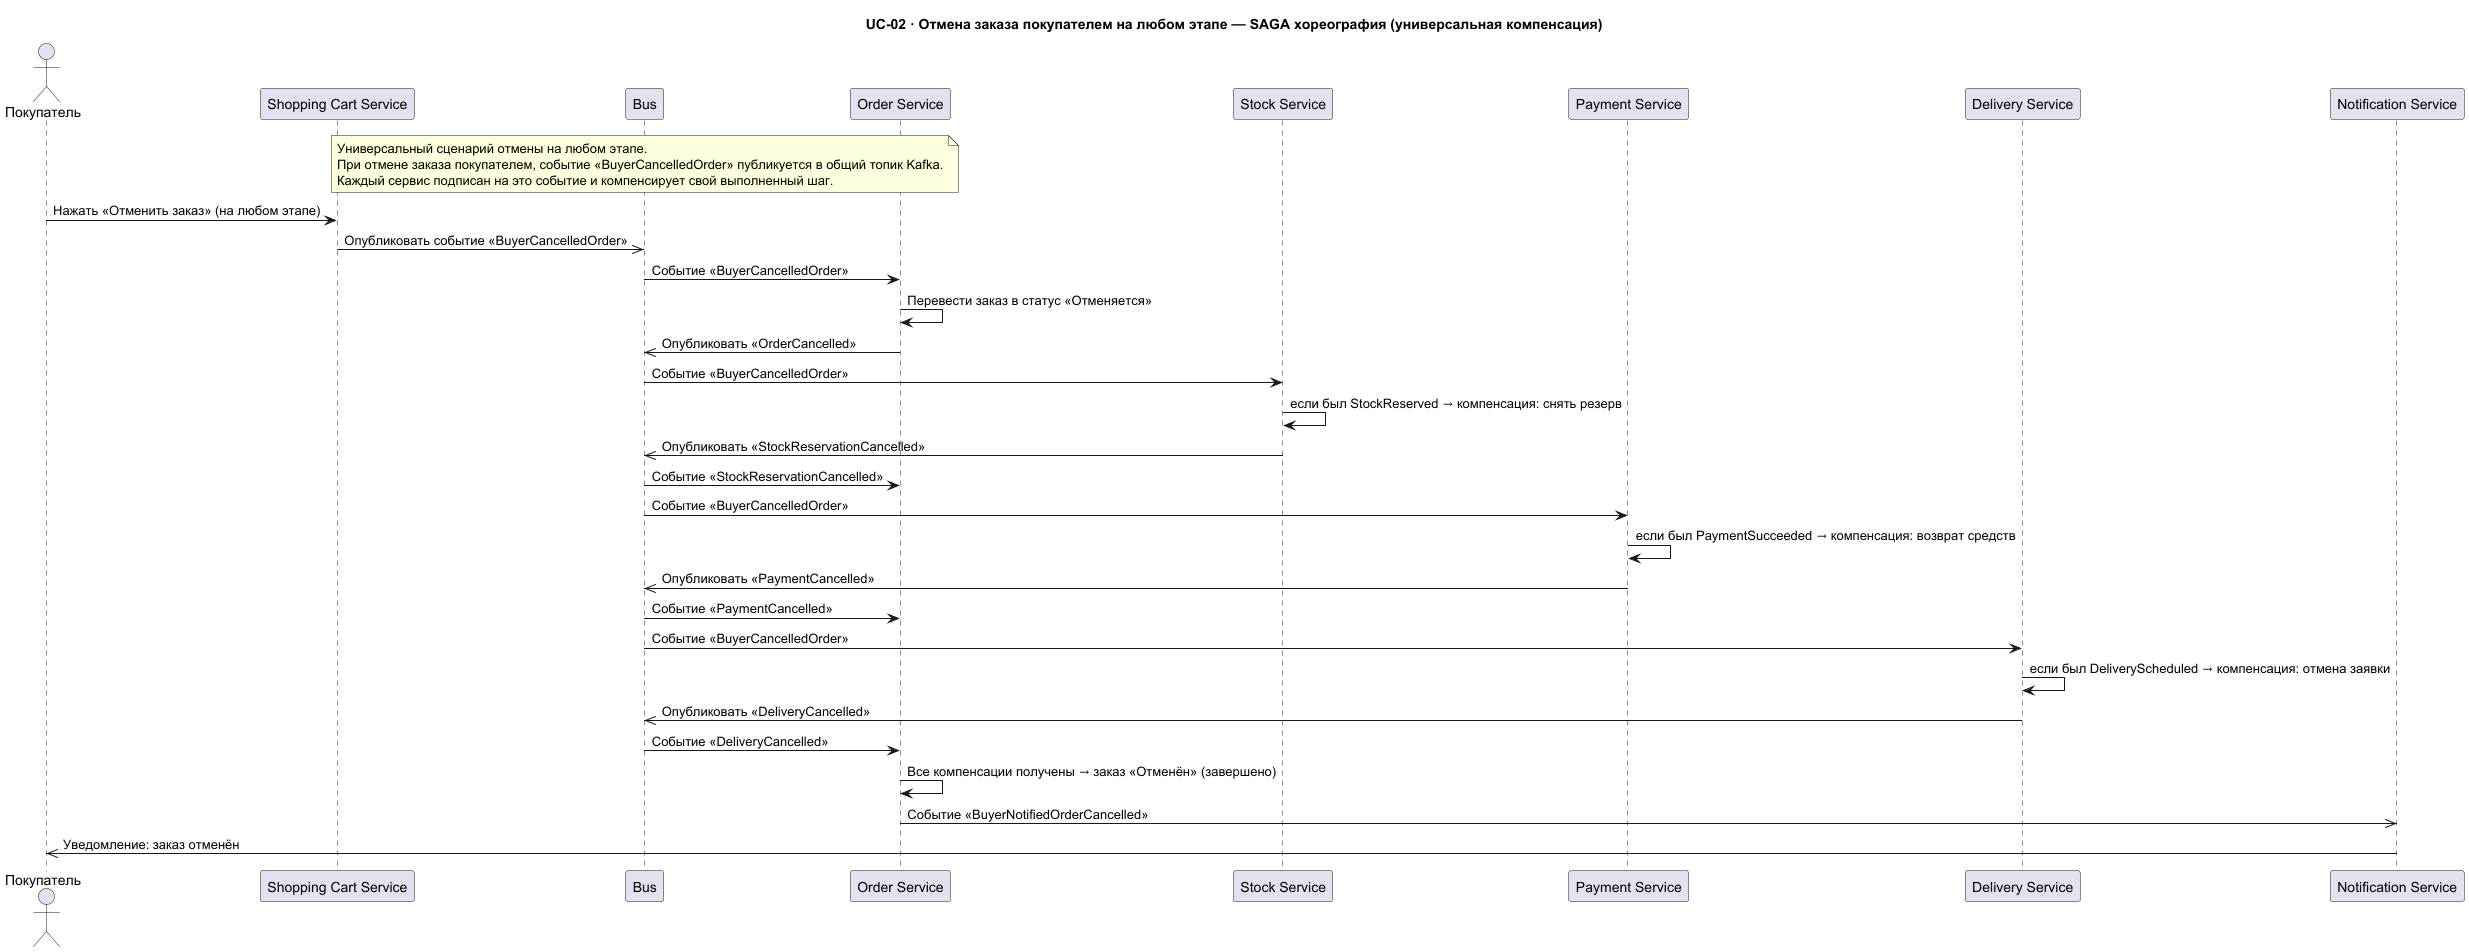
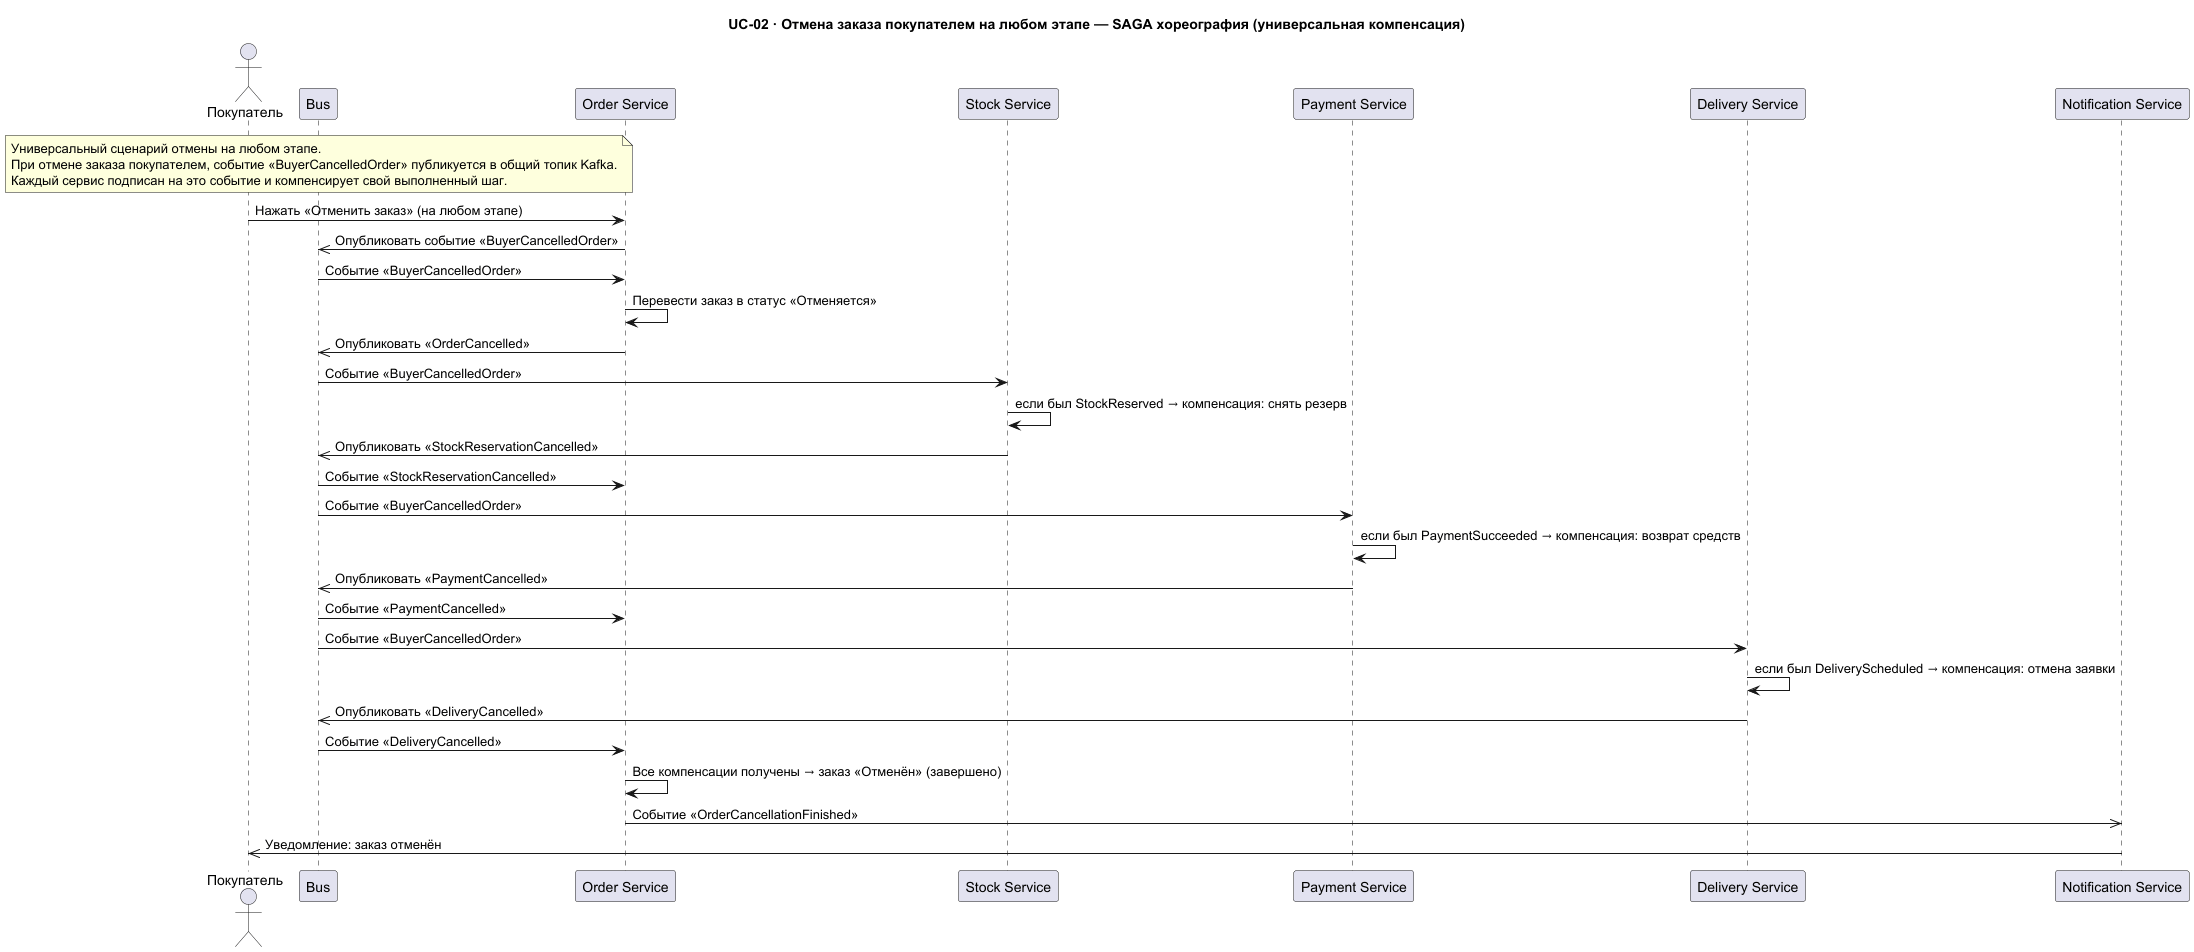
Task1: доработка хореографии, синхронизация документации

diff --git a/Task1/saga-events-registry.md b/Task1/saga-events-registry.md
@@ -13,31 +13,31 @@
 
 ## События при оформлении заказа ##
 
-Реестр построен по выбранному паттерну **SAGA-хореография** (см. [ADR-02](ADR-02-SAGA-pattern-choice.md)); именование событий согласовано с [seq-order-placement-choreography-happy-path.puml](seq-order-placement-choreography-happy-path.puml), [seq-order-placement-choreography-payment-failed.puml](seq-order-placement-choreography-payment-failed.puml) и [seq-order-placement-choreography-delivery-scheduling-failed.puml](seq-order-placement-choreography-delivery-scheduling-failed.puml) и [seq-order-placement-choreography-buyer-cancel.puml](seq-order-placement-choreography-buyer-cancel.puml). 
+Реестр построен по выбранному паттерну **SAGA-хореография** (см. [ADR-02](ADR-02-SAGA-pattern-choice.md)); именование событий согласовано с [seq-order-placement-choreography-happy-path.puml](seq-order-placement-choreography-happy-path.puml), [seq-order-placement-choreography-payment-failed.puml](seq-order-placement-choreography-payment-failed.puml) и [seq-order-placement-choreography-delivery-scheduling-failed.puml](seq-order-placement-choreography-delivery-scheduling-failed.puml) и [seq-order-placement-choreography-buyer-cancel.puml](seq-order-placement-choreography-buyer-cancel.puml) и [seq-order-placement-choreography-stock-reservation-failed.puml](seq-order-placement-choreography-stock-reservation-failed.puml). 
 
-| Этап                               | Тип события  | Название                                 |
-|:-----------------------------------|:------------:|-----------------------------------------:|
-| Оформление заказа покупателем      |    domain    | CartConfirmed                            |
-| Инициирование оплаты заказа        |    domain    | PaymentInitiated                         |
-| Резервирование товаров успешно     |    domain    | StockReserved                            |
-| Резервирование товаров не успешно  |   failure    | StockReservationFailed                   |
-| Снятие резервирования товара       | compensation | StockReservationCancelled                |
-| Списание средств успешно           |    domain    | PaymentSucceeded                         |
-| Списание средств не успешно        |   failure    | PaymentFailed                            |
-| Оплата отменена        | compensation | PaymentCancelled                            |
-| Сформирована заявка на доставку    |    domain    | DeliveryScheduled                        |
-| Заявка на доставку не сформирована | compensation | DeliverySchedulingFailed                 |
-| Заявка на доставку отменена        | compensation | DeliveryCancelled                        |
-| Уведомление продавцу о подготовке товара | domain | SellerNotifiedForDispatch                |
-| Уведомление покупателю об успешном оформлении | domain | BuyerNotifiedOrderConfirmed         |
-| Уведомление покупателю об отмене заказа | domain | BuyerNotifiedOrderCancelled          |
-| Продавец окончательно подтвердил заказ | domain   | SellerConfirmedDeliveryOrder        |
-| Подтверждение заказа покупателем   |    domain    | OrderConfirmed                      |
-| Заказ явно отменён покупателем     | compensation | BuyerCancelledOrder                  |
-| Заказ отменён (компенсация сбоя)   | compensation | OrderCancelled |
-| Завершена отмена заказа | compensation | OrderCancellationFinished |
-| Заказ не подтверждён покупателем   |   timeout    | OrderConfirmTimeout                 |
-| Не удалось осуществить доставку    | compensation | DeliveryFailed                 |
+| Этап                               | Тип события  | Название                                 | Издатель |
+|:-----------------------------------|:------------:|-----------------------------------------:|:--------|
+| Оформление заказа покупателем      |    domain    | CartConfirmed                            | Shopping Cart Service |
+| Не удалось создать заказ           |   failure    | UnableToCreateOrder                      | Shopping Cart Service |
+| Резервирование товаров успешно     |    domain    | StockReserved                            | Stock Service |
+| Резервирование товаров не успешно  |   failure    | StockReservationFailed                   | Stock Service |
+| Отмена резервирования товара       | compensation | StockReservationCancelled                | Stock Service |
+| Инициирование оплаты заказа        |    domain    | OrderNeedsPayment                        | Order Service |
+| Заказ явно отменён покупателем     | compensation | BuyerCancelledOrder                  | Order Service |
+| Заказ отменён (компенсация сбоя)   | compensation | OrderCancelled                      | Order Service |
+| Завершена отмена заказа            | compensation | OrderCancellationFinished            | Order Service |
+| Списание средств успешно           |    domain    | PaymentSucceeded                         | Payment Service |
+| Списание средств не успешно        |   failure    | PaymentFailed                            | Payment Service |
+| Оплата отменена                    | compensation | PaymentCancelled                         | Payment Service |
+| Сформирована заявка на доставку    |    domain    | DeliveryScheduled                        | Delivery Service |
+| Заявка на доставку не сформирована | compensation | DeliverySchedulingFailed                 | Delivery Service |
+| Заявка на доставку отменена        | compensation | DeliveryCancelled                        | Delivery Service |
+| Уведомление продавцу о подготовке товара | domain | SellerNotifiedForDispatch            | (не в хореографии) |
+| Уведомление покупателю об успешном оформлении | domain | BuyerNotifiedOrderConfirmed      | (не в хореографии) |
+| Продавец окончательно подтвердил заказ | domain   | SellerConfirmedDeliveryOrder        | (не в хореографии) |
+| Подтверждение заказа покупателем   |    domain    | OrderConfirmed                      | (не в хореографии) |
+| Заказ не подтверждён покупателем   |   timeout    | OrderConfirmTimeout                 | (не в хореографии) |
+| Не удалось осуществить доставку    | compensation | DeliveryFailed                      | (не в хореографии) |
 
 ## События при просмотре заказа покупателем ##
 

diff --git a/Task1/ADR-02-SAGA-pattern-choice.md b/Task1/ADR-02-SAGA-pattern-choice.md
@@ -14,7 +14,7 @@
 
 **SAGA-хореография** — сервисы обмениваются событиями через шину событий (Kafka), без центрального координатора:
 
-![SAGA-хореография](seq-order-placement-choreography.png)
+![SAGA-хореография](seq-order-placement-choreography-happy-path.png)
 
 **SAGA-оркестрация** — Order Service выступает центральным координатором и явно вызывает остальные сервисы:
 
